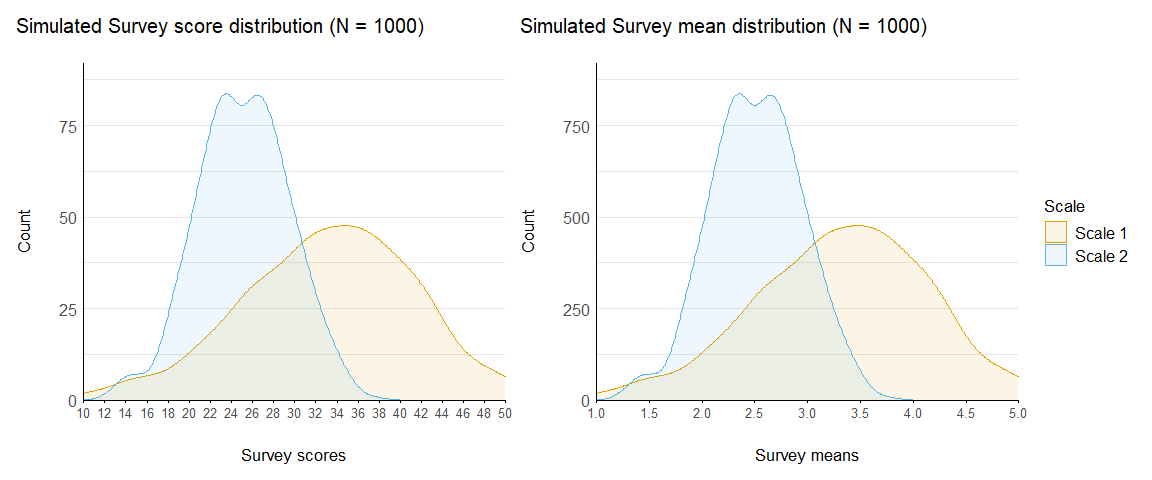
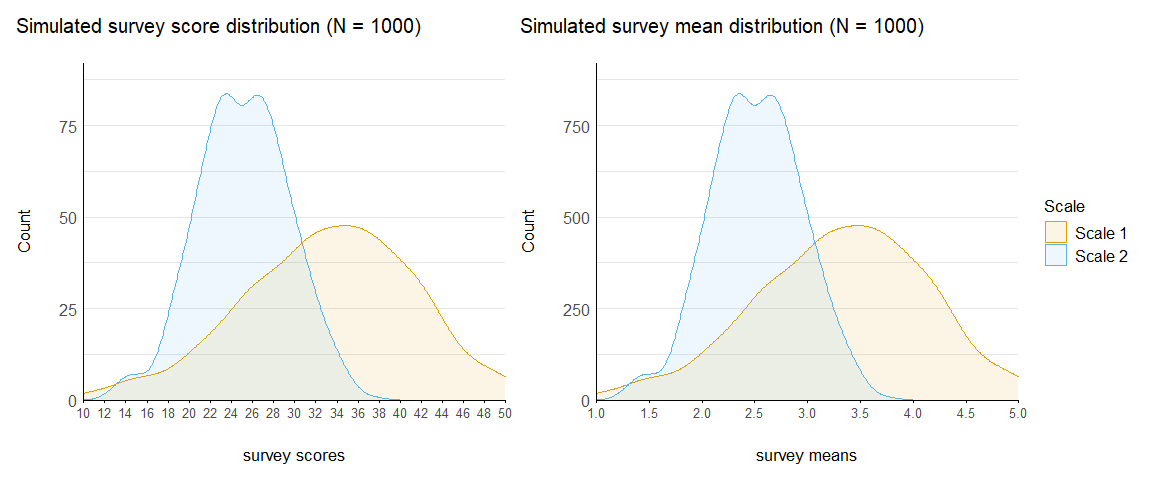
small corrections

diff --git a/README.md b/README.md
@@ -147,16 +147,16 @@ head(df) |> display()
 A plotting function is also provided:
 
 ``` r
-scores <- plot_questionnaires(df, var = "score", questionnaire = "Survey")
-means  <- plot_questionnaires(df, var = "mean",  questionnaire = "Survey") 
+scores <- plot_questionnaires(df, var = "score", questionnaire = "survey")
+means  <- plot_questionnaires(df, var = "mean",  questionnaire = "survey") 
 
-# Laying out the four plots with the `patchwork` package
+# Laying out the plots with the `patchwork` package
 scores + means + plot_layout(guides = "collect")
 ```
 
 ![](README_files/figure-commonmark/plot-questionnaires-1.png)
 
-## OSIVQ example
+## Example simulation of the OSIVQ
 
 Let’s see a more realistic simulation for a cognitive styles
 questionnaire I use often: the Object-Spatial Imagery and Verbal
@@ -232,9 +232,9 @@ This looks pretty similar to the data presented in the original article!
 
 ## VVIQ
 
-This repository also contains code to simulate data for the [Vividness
-of Visual Imagery Questionnaire
-(VVIQ)](https://bpspsychub.onlinelibrary.wiley.com/doi/10.1111/j.2044-8295.1973.tb01322.x).
+This repository also contains code to simulate data for the Vividness of
+Visual Imagery Questionnaire (VVIQ, [Marks,
+1973](https://bpspsychub.onlinelibrary.wiley.com/doi/10.1111/j.2044-8295.1973.tb01322.x)).
 This task was pretty specific because the distribution of the VVIQ is
 not normal and I did not have precise statistical parameters from the
 literature, only general visual imagery prevalence data. According to
